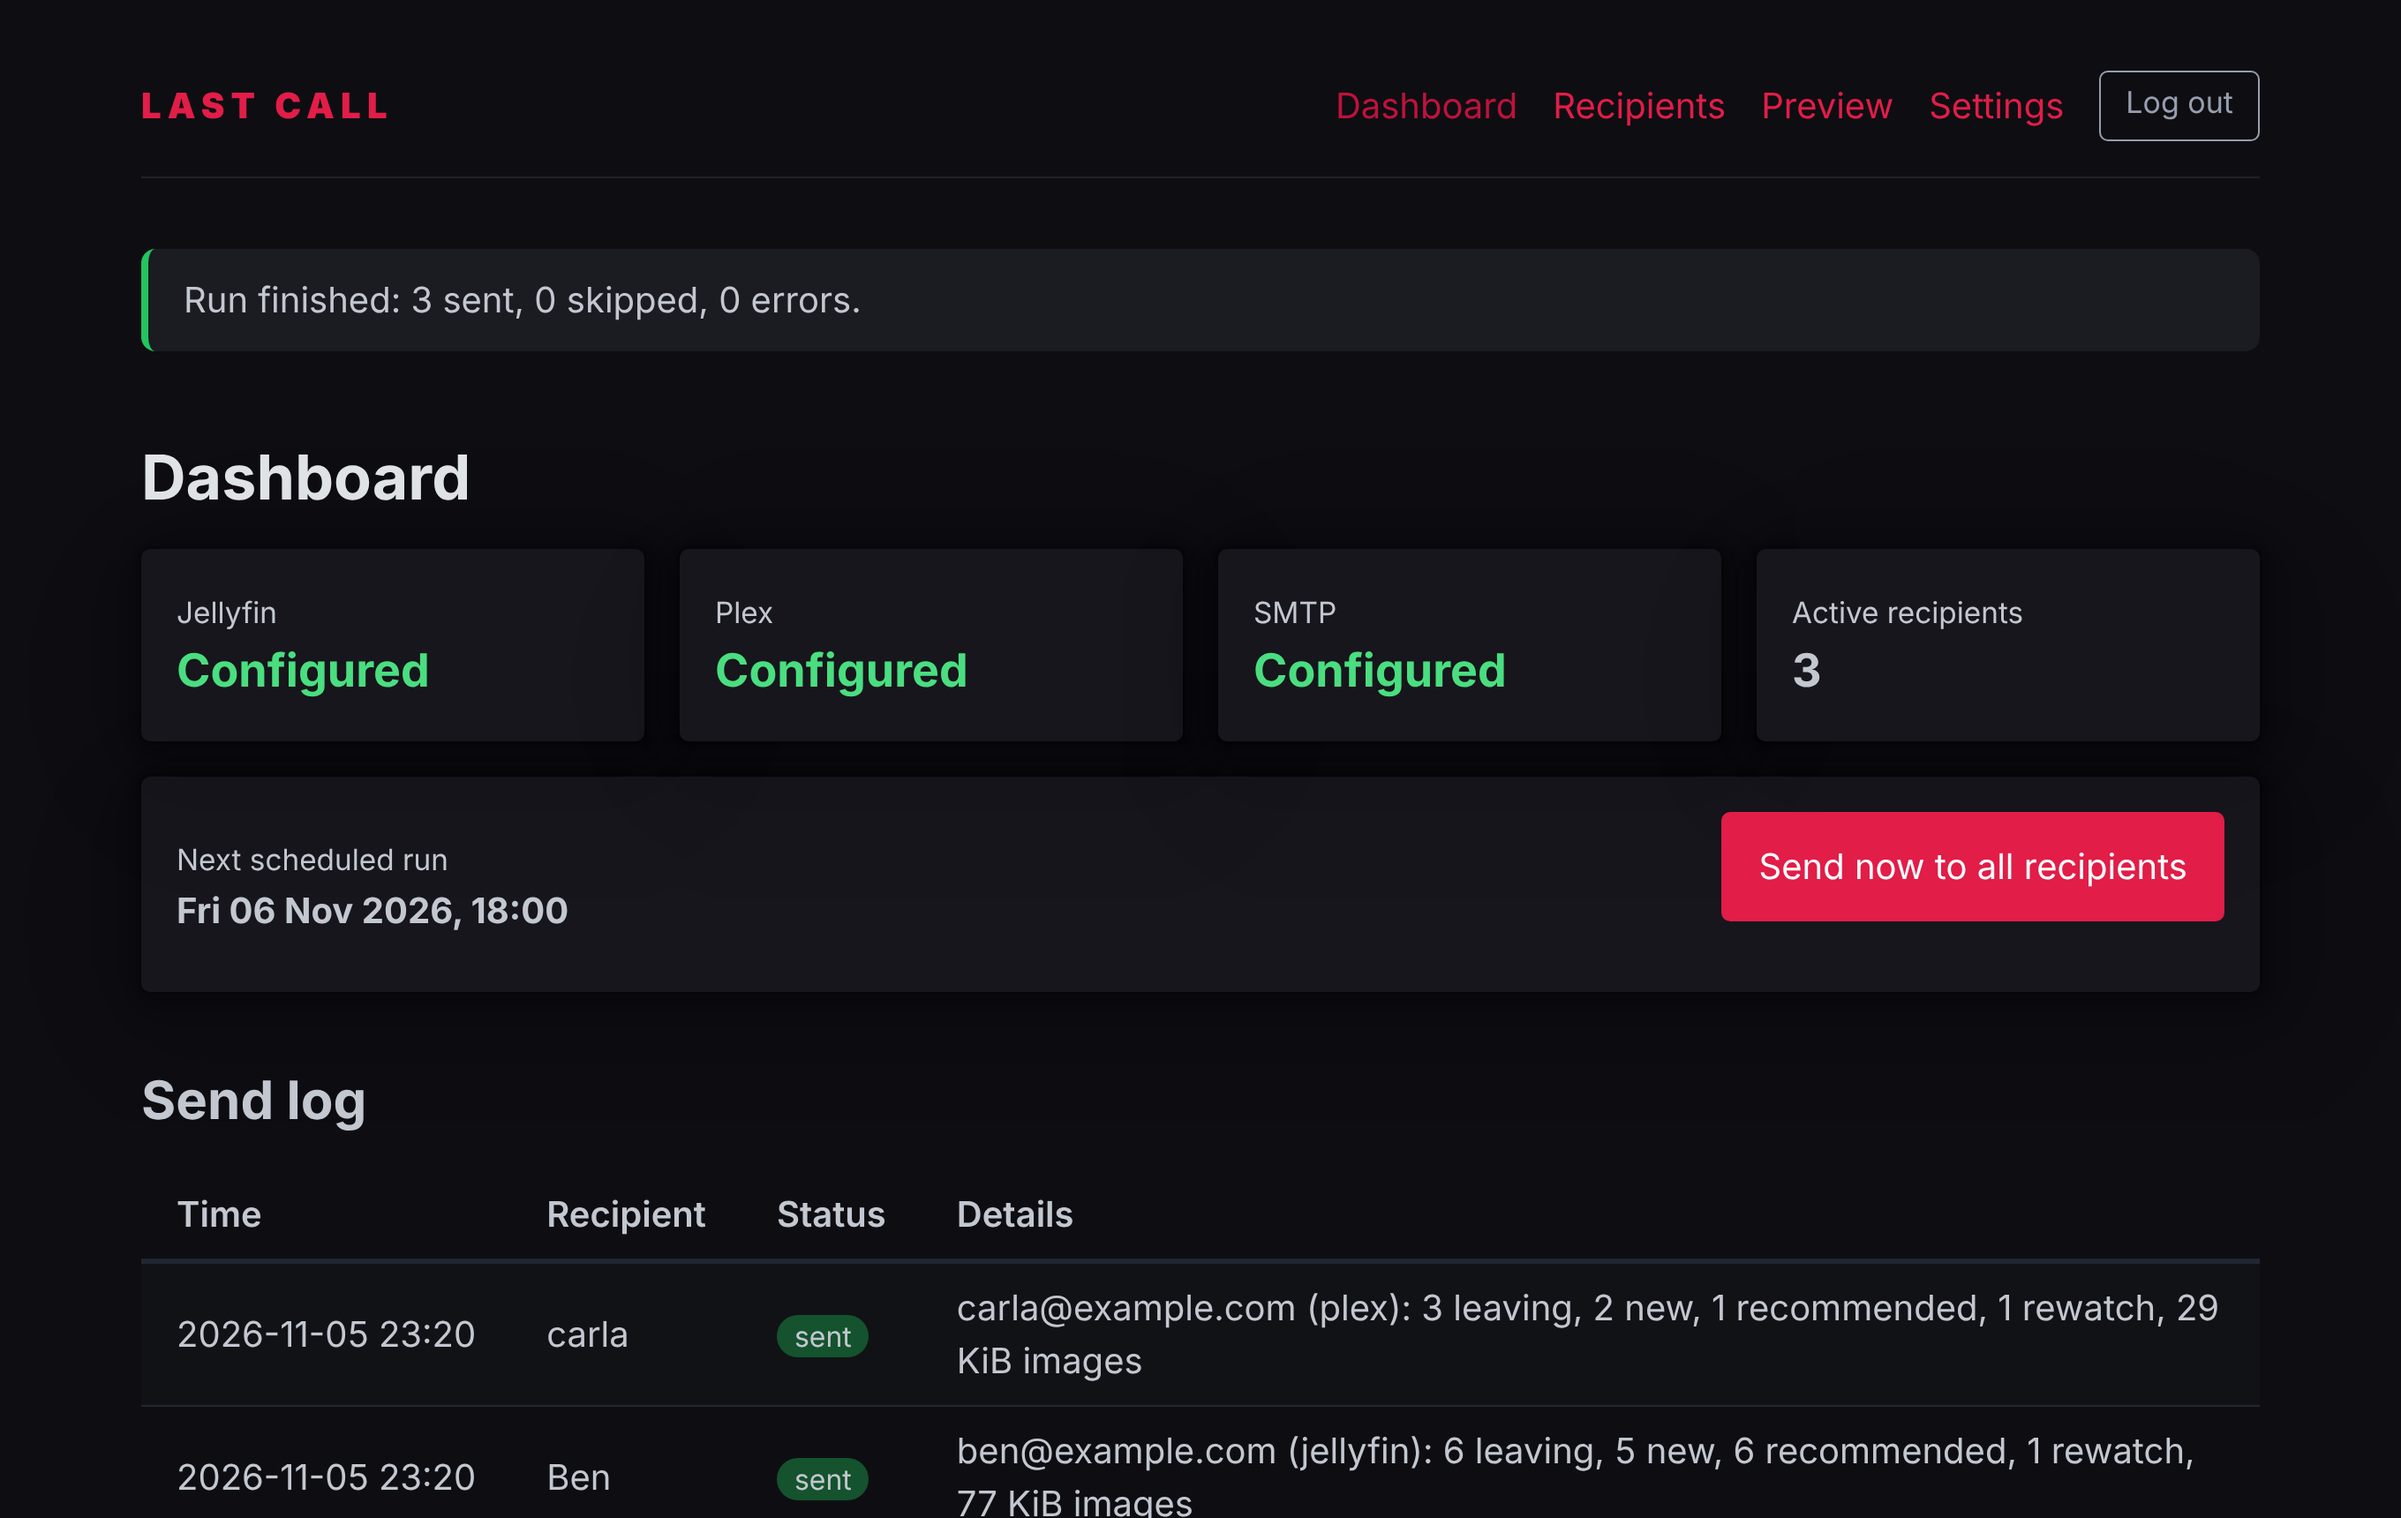
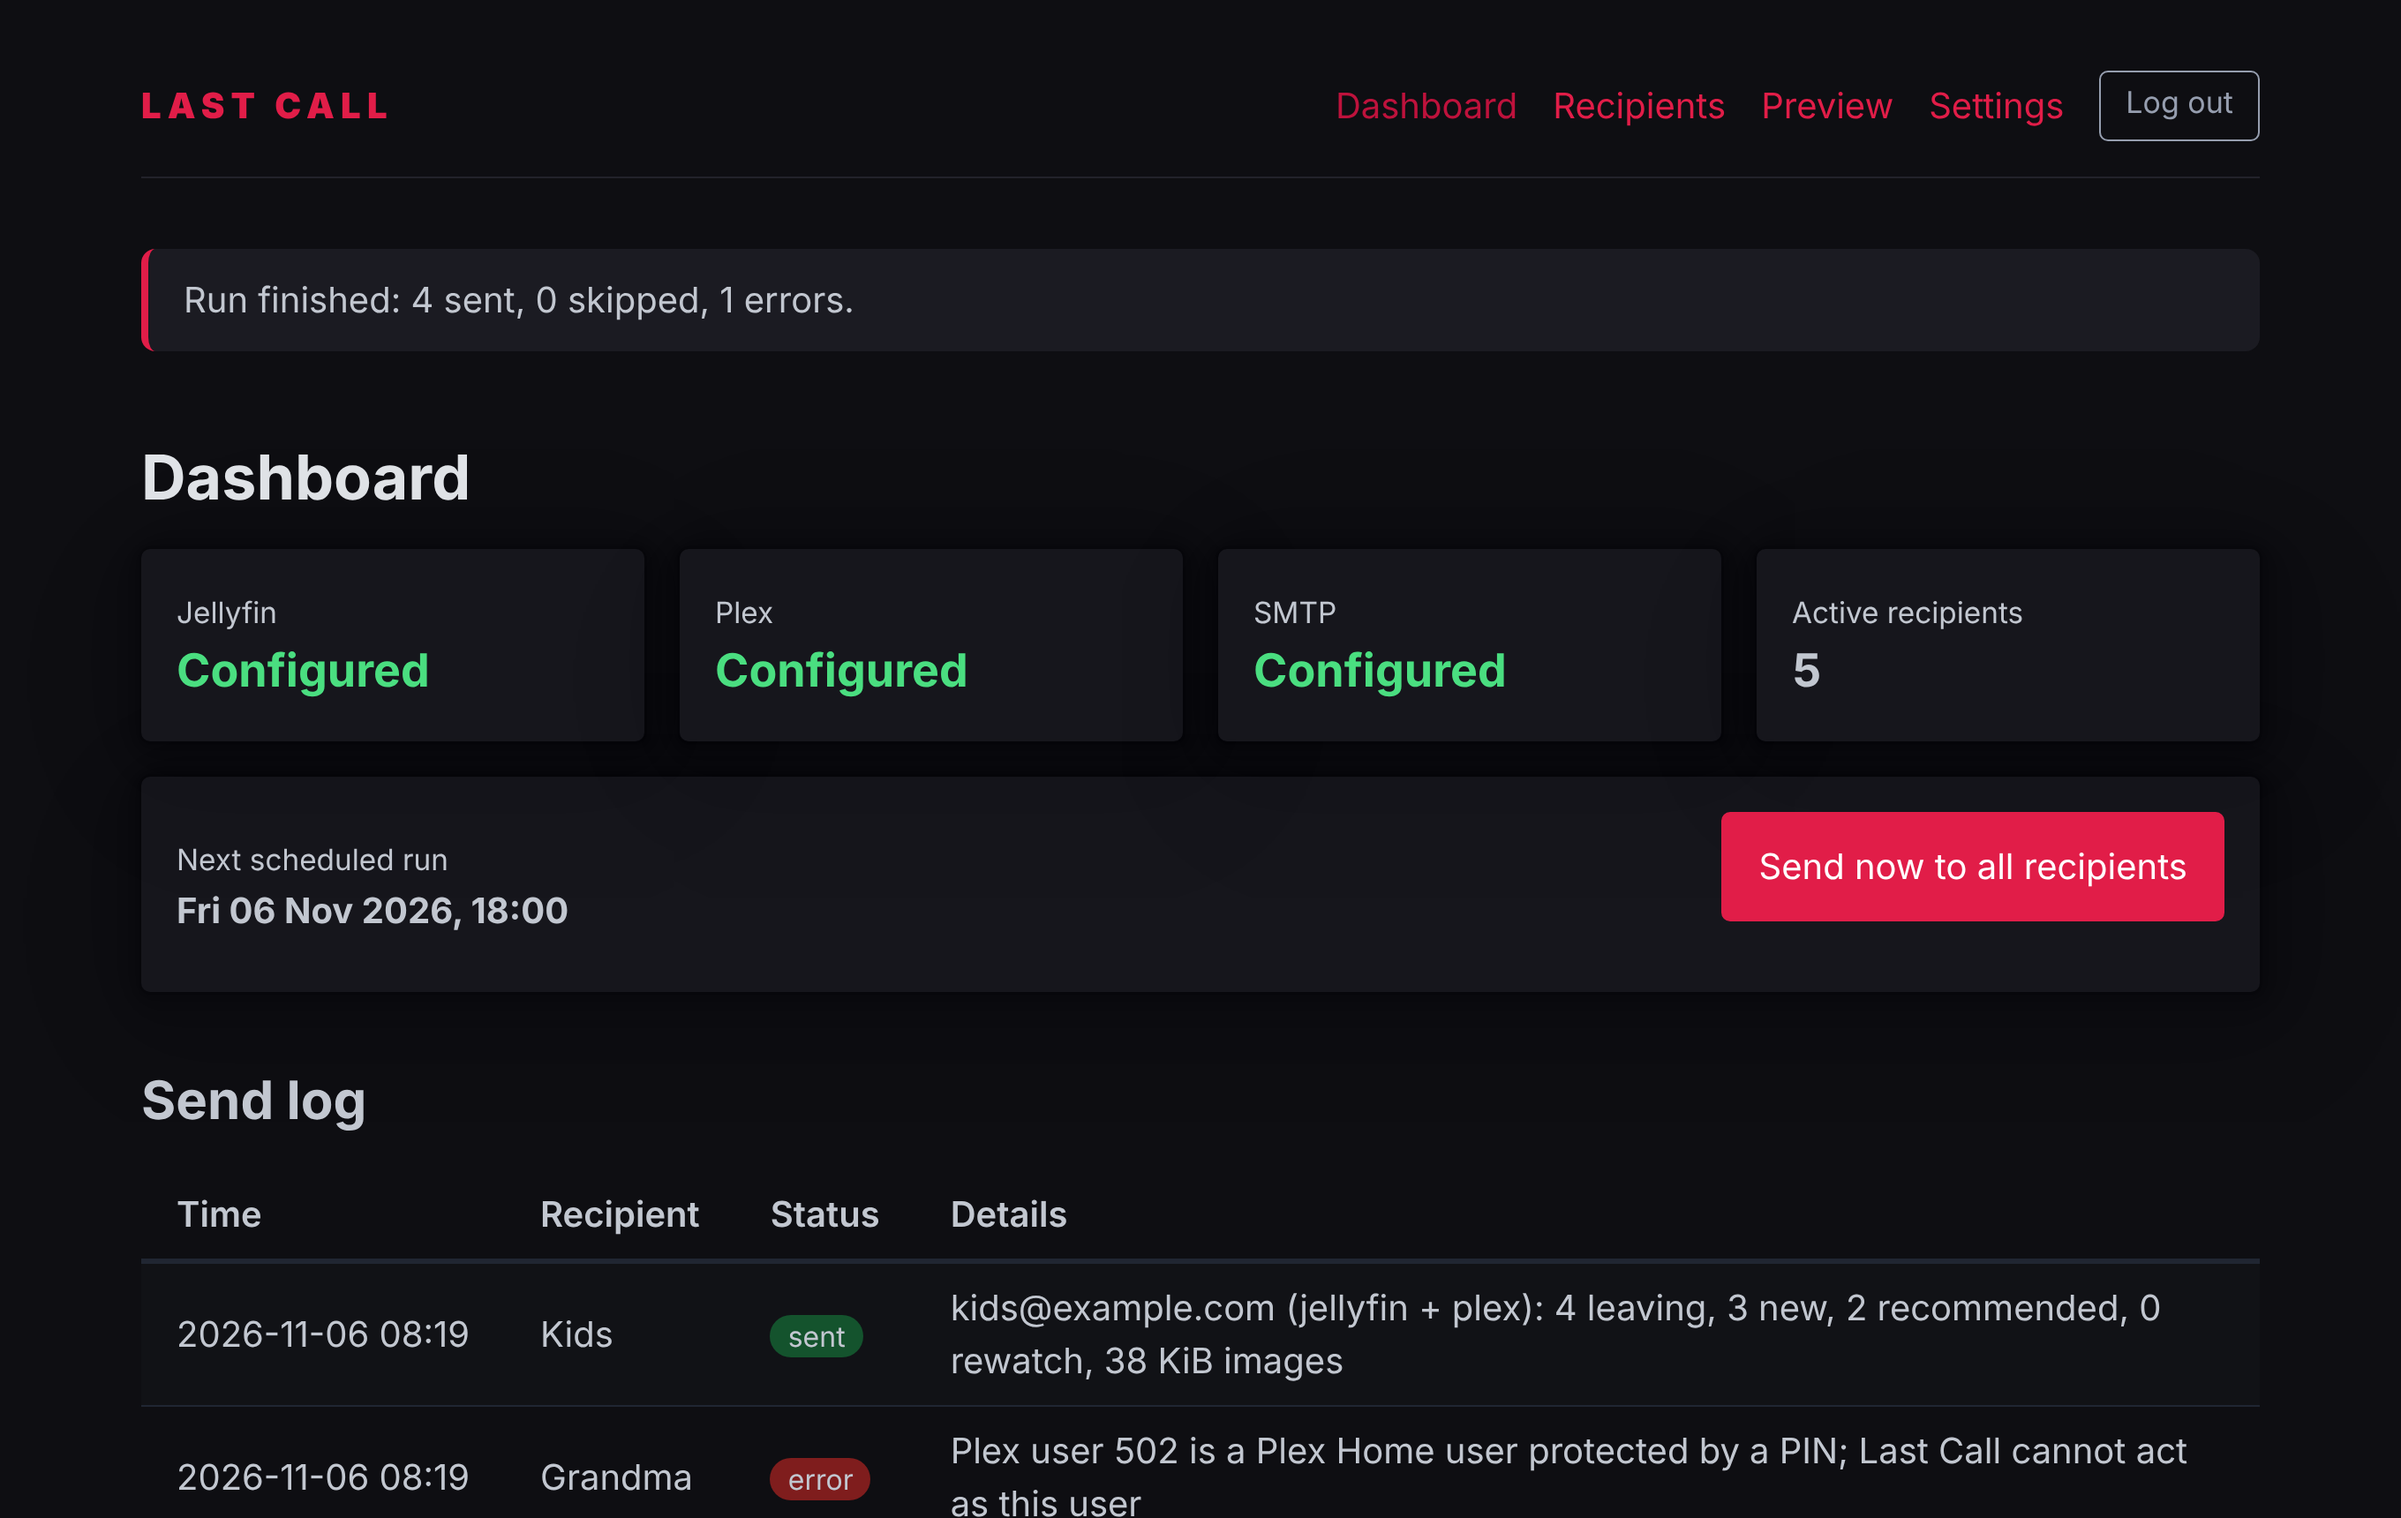
docs: describe Plex Home users
Claude-Session: https://claude.ai/code/session_01VUT8kw9QZCftsugc5CwrLY

diff --git a/README.md b/README.md
@@ -157,7 +157,7 @@ Nein. Last Call liest nur. Gelöscht wird ausschließlich von Maintainerr.
 Nicht eingebaut, um die App schlank zu halten. Stell Last Call hinter deinen Reverse Proxy mit Forward Auth (Authentik-Proxy-Provider, Authelia …). Der eingebaute Admin-Login bleibt zusätzlich aktiv.
 
 **Welche Plex-User werden importiert?**
-Der Besitzer des Servers und alle User, mit denen der Server geteilt ist (laut plex.tv). Plex-Home-User ohne eigenes plex.tv-Konto werden nicht importiert.
+Der Besitzer des Servers, alle User, mit denen der Server geteilt ist, und die Mitglieder deines **Plex Home** (auch verwaltete Benutzer, z. B. Kinder-Konten). Home-User sind in der Auswahl mit „(Home)“ markiert. Sie haben bei plex.tv keine E-Mail-Adresse, du trägst sie in der Empfängerliste von Hand ein. Ein späterer Import überschreibt sie nicht. Last Call liest die Bibliothek eines Home-Users mit dessen eigenem Zugriff, also mit seinen Freigaben, Altersbeschränkungen und seinem Wiedergabestatus. **Ausnahme:** Home-User mit PIN kann Last Call nicht lesen. Entferne dort die PIN oder wähle für die Person „Jellyfin“.
 
 **Warum ist die Weboberfläche englisch?**
 Damit der Code klein bleibt. Die E-Mails gibt es auf Deutsch und Englisch.
@@ -280,7 +280,7 @@ No. It only reads data. Deleting is done exclusively by Maintainerr.
 Not built in, to keep the app small. Put Last Call behind your reverse proxy with forward auth (Authentik proxy provider, Authelia, …). The built-in admin login stays active as well.
 
 **Which Plex users are imported?**
-The server owner and every user the server is shared with (according to plex.tv). Plex Home users without their own plex.tv account are not imported.
+The server owner, every user the server is shared with, and the members of your **Plex Home** (including managed users such as kids' accounts). Home users are marked "(Home)" in the account list. They have no e-mail address on plex.tv, so you enter it by hand on the Recipients page, and later imports never overwrite it. Last Call reads a home user's library with that user's own access, so their library sharing, age restrictions and watch state apply. **Exception:** Last Call cannot read home users protected by a PIN. Remove the PIN or choose "Jellyfin" for that person.
 
 **Why is the web UI in English?**
 To keep the code small. The e-mails are available in German and English.
